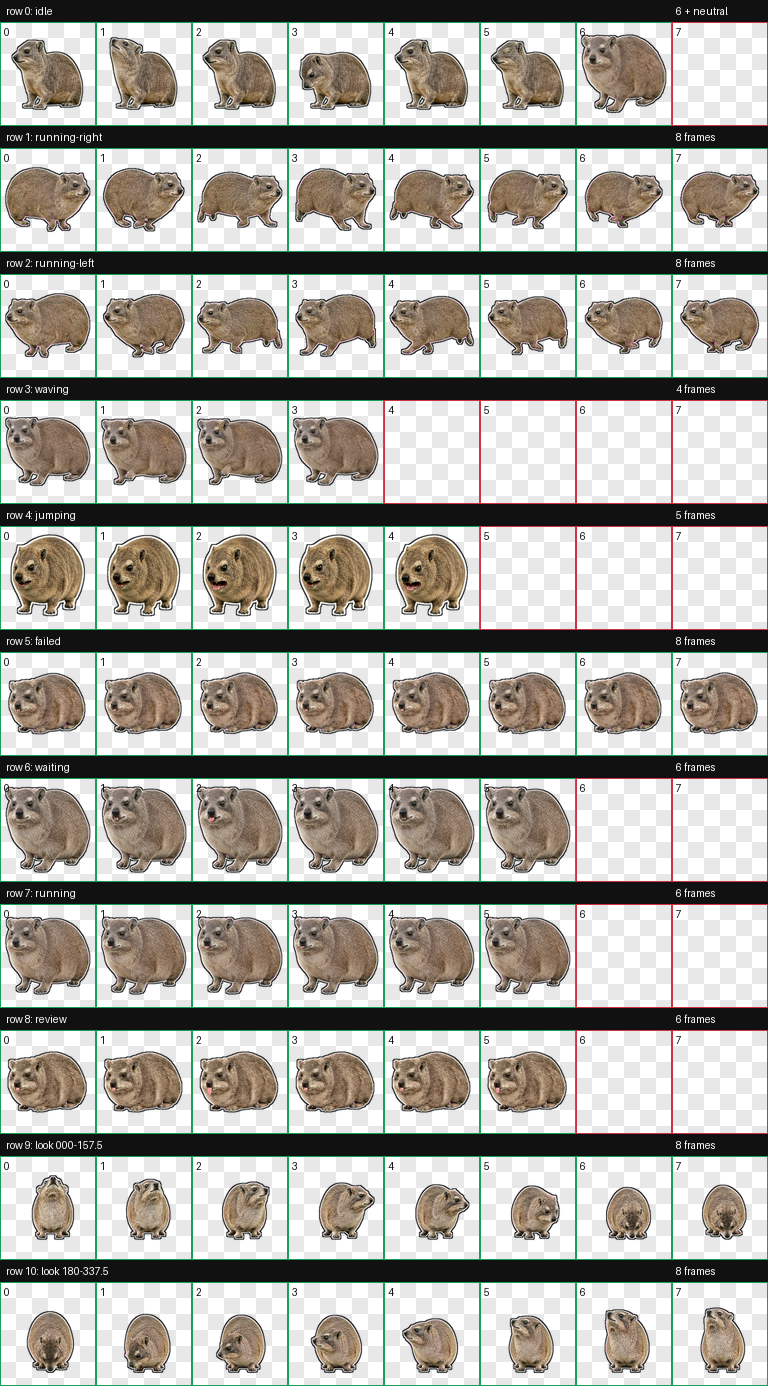
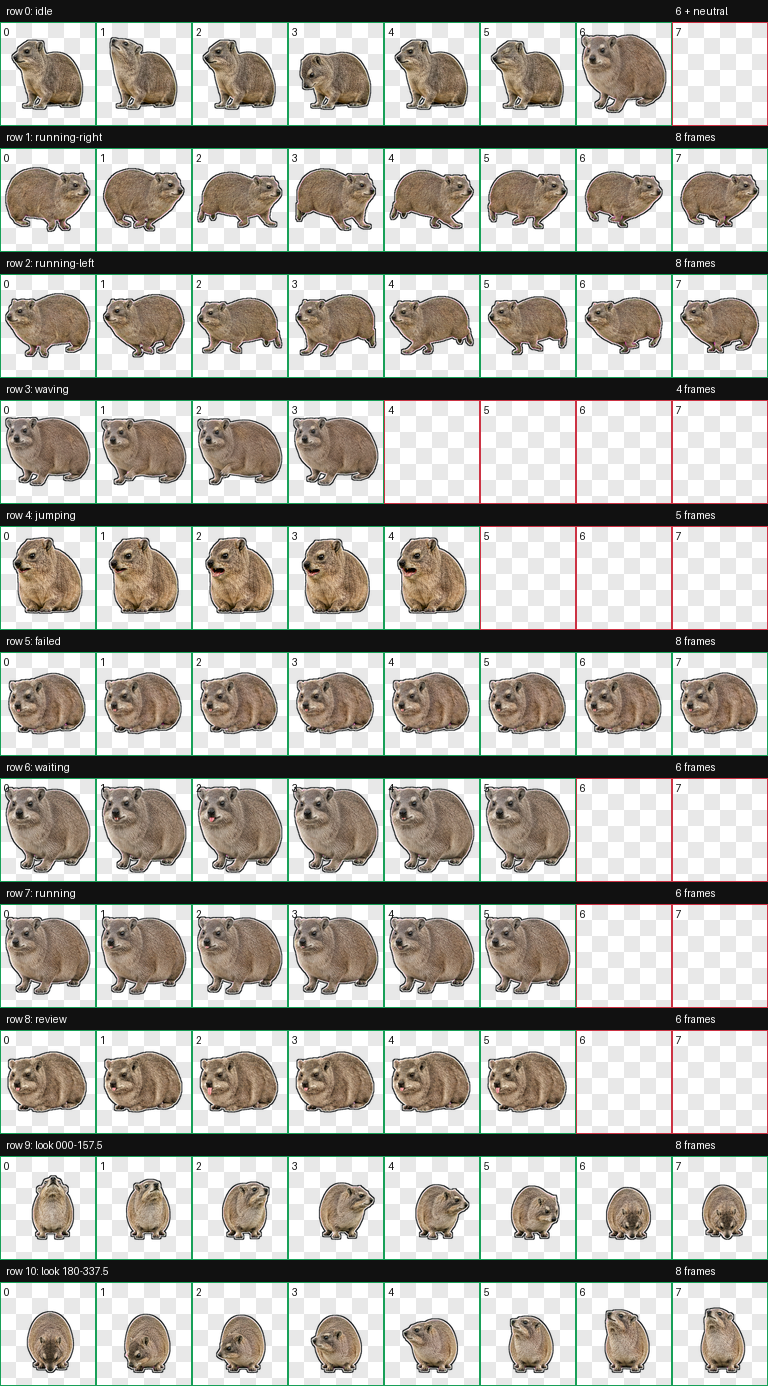
Smooth awawa transition and unify outlines

Changed region(s): [[0.0, 0.3723, 0.625, 0.4654]]

diff --git a/qa/v17-manual-qa.md b/qa/v17-manual-qa.md
@@ -1,0 +1,39 @@
+# Durax v17 final manual visual QA
+
+## Verdict
+
+PASS
+
+## Evidence inspected
+
+- v17 `contact-sheet.png`
+- v17 `previews/jumping.gif`, 192 x 208 GIF, 5 frames, 170 ms per frame, infinite loop
+- v17 `spritesheet-extended-final.webp`, 1536 x 2288 RGBA WebP
+- v17 `spritesheet-extended-final.png` compared row by row with v16
+- v16 `contact-sheet.png`
+- `transition-outline-spec.md`
+- `validation.json`, `ok: true`, no errors or warnings
+
+## Findings
+
+- Row 4 preserves the approved left-down three-quarter head. The muzzle remains directed toward screen-left and down, one near eye dominates above the nose, and the far eye stays recessed.
+- The five-frame loop reads as small `아`, held small `아`, large first `와`, partial open recovery, large second `와`, then returns to the small opening.
+- Every mouth is slightly more open than its v16 counterpart while retaining the small, large, recovery, large contrast.
+- The large mouths remain wider than tall. No frame forms a tall circular O, thin slit, pointed snout, fang, or oversized tooth.
+- The v17 body is a compact semi-upright seated oval with a side-on lean and gathered feet. It is visibly closer to row 0 idle than the broader, taller v16 frontal body.
+- The transition from row 0 idle into row 4 is materially less abrupt than v16. The pose remains upright and active enough that it does not collapse into a flat loaf.
+- Within row 4, the top and foot baseline remain stable. Frames 0-2 and 4 end at y 178, while the partial-recovery frame ends at y 179. This one-pixel fur-edge variation does not read as a body jump.
+- No frame is cropped. The tightest row 4 margins are 23 px left, 24 px right, 19 px top, and 29 px bottom.
+- Measured alpha boxes match the supplied evidence: idle frame 0 is `(20, 33, 168, 179)` and awawa frame 0 is `(23, 19, 168, 178)`.
+- The supplied light-outline counts are comparable, idle 232 and awawa 225. Visual inspection confirms matching outline density rather than a doubled pale rim.
+- Row 4 uses the same outline order as the other rows: a narrow pale inner line followed by a dark outer line. No baked double white halo, glow, sticker rim, or shadow is visible.
+- Pixel comparison against v16 shows rows 0-3 and 5-10 are identical. Only row 4 changed.
+- The atlas passes validation at 8 columns by 11 rows with RGBA transparency, zero transparent-RGB residue, zero chroma fringe, zero errors, and zero warnings.
+
+## Non-blocking observation
+
+- The recovery frame has a one-pixel lower alpha edge than the other row 4 frames. Feet remain visually planted and the GIF does not show a vertical bounce.
+
+## Blocking findings
+
+None.

diff --git a/README.md b/README.md
@@ -4,7 +4,7 @@
 
 귀여운 캐릭터나 일러스트가 아니라 짧고 둥근 실제 바위너구리의 생김새를 유지했습니다. 입을 벌리는 동작에서는 작은 앞니가 보이고, 납작하게 앉은 동작에서는 몸을 고정한 채 눈에 보이는 짧은 혀를 내밀고 있습니다.
 
-마우스를 올리면 뛰지 않고 머리를 화면 왼쪽 아래로 살짝 숙인 채 `아-와-와` 호흡을 합니다. 초식동물다운 3/4 측면에서 가까운 눈 하나가 화면을 보고, 코 아래의 뭉툭한 주둥이는 왼쪽 아래를 향합니다. 작은 들숨을 거쳐 두 번 크게 발화하며, hover 뒤에는 자연스러운 짧고 넓은 비율로 쪼그린 채 혀 길이만 왕복합니다.
+마우스를 올리면 idle과 가까운 반기립 착석 자세에서 머리를 화면 왼쪽 아래로 살짝 숙인 채 `아-와-와` 호흡을 합니다. 초식동물다운 3/4 측면에서 가까운 눈 하나가 화면을 보고, 코 아래의 뭉툭한 주둥이는 왼쪽 아래를 향합니다. 작은 들숨을 거쳐 두 번 크게 발화하며, hover 뒤에는 자연스러운 짧고 넓은 비율로 쪼그린 채 혀 길이만 왕복합니다.
 
 ![Idle animation](preview/idle.gif)
 
@@ -16,12 +16,14 @@
 - idle 안에서 왼쪽 기본, 위, 왼쪽 기본, 아래 시선을 보여주는 동작
 - 마우스 hover 시 `작은 아 - 작은 아 유지 - 큰 와 - 중간 회수 - 큰 와`의 5프레임 호흡 루프
 - 두 눈 정면 대칭 대신 왼쪽 아래 3/4 머리 방향과 한쪽 우세 시선
+- idle과 발 기준선을 맞춘 반기립 착석 자세로 hover 전환 격차 축소
 - 코끝과 머리 깊이를 고정하고 볼과 입꼬리만 넓혀 뾰족한 주둥이 돌출 방지
 - hover 뒤 와와 발성 없이 쪼그린 채 혀 길이만 짧음과 중간 사이로 왕복하는 동작
 - 작은 앞니와 이전 혀 끝보다 약 2배 긴 혀 동작
 - 한 번 납작하게 앉은 뒤 몸 변화 없이 혀 길이를 고정하는 동작
 - 오른쪽과 왼쪽 달리기의 크기와 발 기준선 일치
 - 검정색과 흰색 배경에서 모두 보이는 이중 외곽선
+- 모든 행에 원본 중복 테두리 없이 동일한 흰색 안쪽선과 검정 바깥선 적용
 - 모든 프레임에 최소 8px 투명 여백
 
 ## 설치